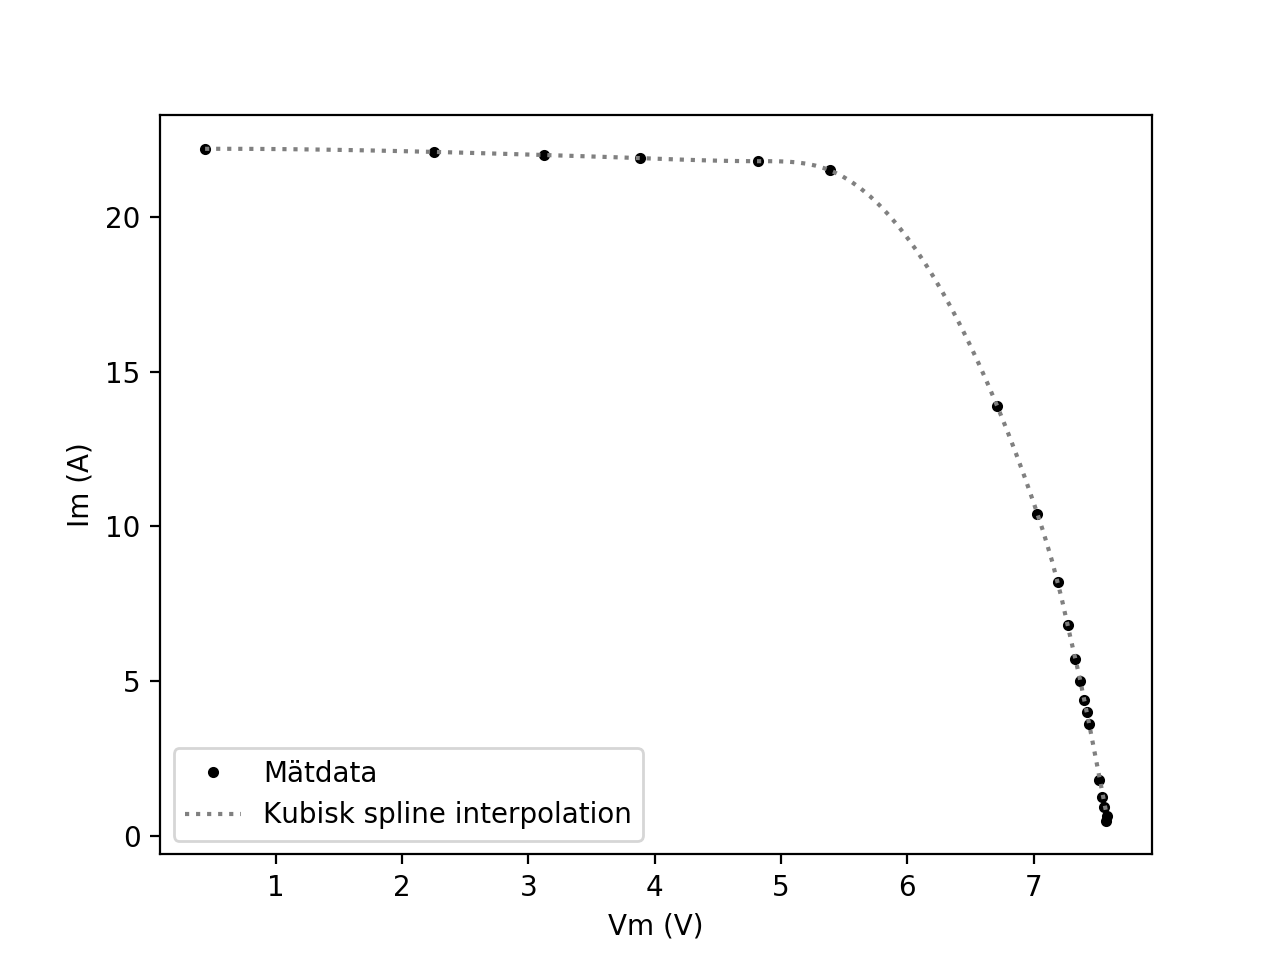
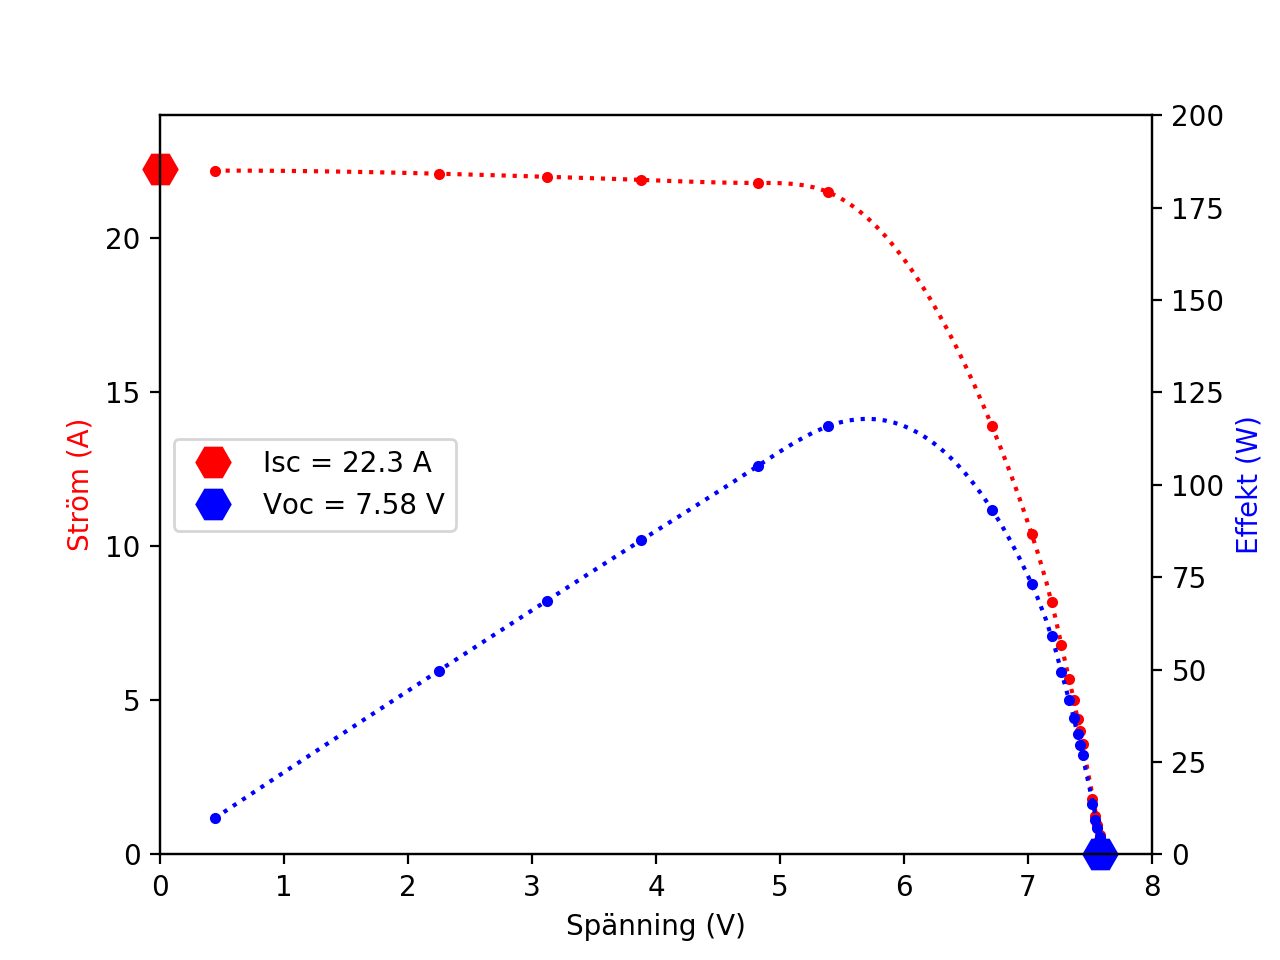
solcells diagram

diff --git a/Lab4/solcell-2.py b/Lab4/solcell-2.py
@@ -20,27 +20,50 @@ data = helpers.getColumnFromSheet(spreadsheetData, sheetName, [0,1]).T
 cs = CubicSpline(Vm, Im)
 xp = np.linspace(np.amin(Vm), np.amax(Vm), 100)
 
-print(Vm)
-plt.plot(
+fig, ax1 = plt.subplots()
+ax1.plot(
     Vm,
     Im,
-    color='black',
+    color='red',
+    marker='.',
+    linestyle='none'
+)
+ax1.plot(
+    xp,
+    cs(xp),
+    color='red',
+    linestyle="dotted",
+)
+ax1.plot(0, 22.25, clip_on=False, marker='H', markersize='12', linestyle='none', color='red', label='Isc = 22.3 A')
+ax1.plot(7.58, 0, clip_on=False, marker='H', markersize='12', linestyle='none', color='blue', label='Voc = 7.58 V')
+ax1.legend(loc='center left')
+ax1.set_xlabel('Spänning (V)')
+ax1.set_ylabel('Ström (A)', color='red')
+ax1.set_xlim(0, 8)
+ax1.set_ylim(0, 24)
+
+Pm = Im*Vm
+ax2 = ax1.twinx()
+ax2.set_ylabel('Effekt (W)', color='blue')
+ax2.set_ylim(0, 200)
+ax2.plot(
+    Vm,
+    Pm,
+    color='blue',
     marker='.',
     linestyle='none',
     label='Mätdata'
 )
-    
-plt.plot(
+cs = CubicSpline(Vm, Pm)
+xp = np.linspace(np.amin(Vm), np.amax(Vm), 100)
+ax2.plot(
     xp,
     cs(xp),
-    color='gray',
+    color='blue',
     linestyle="dotted",
     label='Kubisk spline interpolation'
 )
 
-plt.xlabel('Vm (V)')
-plt.ylabel('Im (A)')
-
 #plt.title("Spänning och ström från solcell med olika motstånd.")
-plt.legend()
+#plt.legend()
 plt.show()
